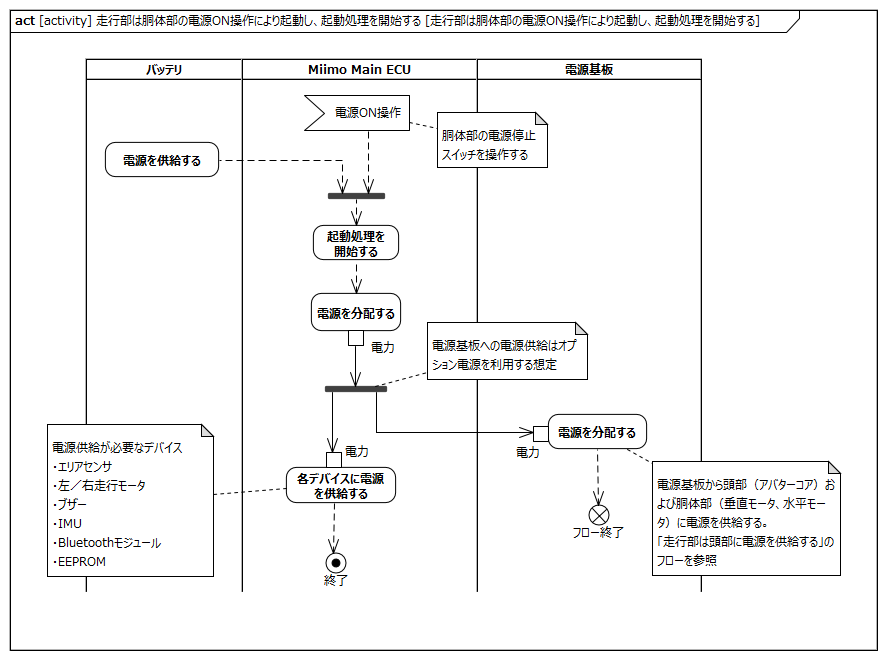
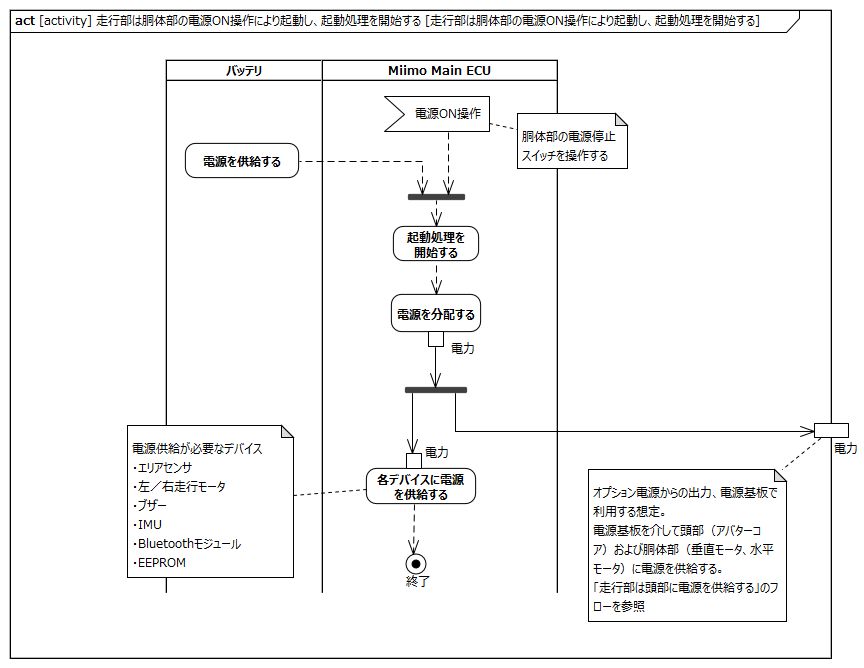
add l2 models/requirement for shutdown

diff --git a/requirements/shutdown.md b/requirements/shutdown.md
@@ -2,7 +2,7 @@
 title: テレプレゼンスロボット要求分析
 subtitle: 「SysRS-15:シャットダウンする」の要求詳細化
 author: 株式会社 豆蔵
-date: 2021年12月10日
+date: 2021年12月28日
 ---
 <!-- ↑表紙ページのための情報 -->
 
@@ -90,7 +90,8 @@ avatarin側の責務のため、対象外とする。
 
 |要求|備考|
 |:---|:---|
-|||
+|表示（LED等）はシャットダウン開始表示指示によ、シャットダウン処理中であることを表示する|※1|
+※1:LEDの色・点灯パターンで区別する想定
 
 <div style="page-break-before:always"></div>
 
@@ -102,7 +103,8 @@ avatarin側の責務のため、対象外とする。
 
 |要求|備考|
 |:---|:---|
-|||
+|垂直モータは頭部（アバターコア）による診断を受ける|「SysRS-01:起動する」内の要求と同一|
+|水平モータは頭部（アバターコア）による診断を受ける|「SysRS-01:起動する」内の要求と同一|
 
 <div style="page-break-before:always"></div>
 
@@ -114,7 +116,7 @@ avatarin側の責務のため、対象外とする。
 
 |要求|備考|
 |:---|:---|
-|||
+|表示（LED等）は電源OFFにより全ての状態表示をOFFにする||
 
 <div style="page-break-before:always"></div>
 
@@ -127,91 +129,115 @@ avatarin側の責務のため、対象外とする。
 
 |要求|備考|
 |:---|:---|
-|||
+|Miimo Main ECUは胴体部の電源OFF操作または、頭部からのシャットダウン開始指示によりシャットダウン処理を開始する||
+|Miimo Main ECUはシャットダウン開始表紙指示を胴体部に通知する|シャットダウン処理中であることを表示するため|
 
 <div style="page-break-before:always"></div>
 
 ## 走行部は頭部へシャットダウン開始を通知する
 
-![](.images/activity/shutdown/act01.png)
+![](.images/activity/shutdown/act02.png)
 
 
 **L2要求抽出**
 
 |要求|備考|
 |:---|:---|
-|||
+|Miimo Main ECUは頭部からシャットダウン開始指示を受信していない場合、頭部にシャットダウン開始指示を通知する||
 
 <div style="page-break-before:always"></div>
 
 ## 走行部は頭部への電源をOFFする
 
-![](.images/activity/shutdown/act01.png)
+![](.images/activity/shutdown/act03.png)
 
 
 **L2要求抽出**
 
 |要求|備考|
 |:---|:---|
-|||
+|Miimo Main ECUは電源基板への電源供給をOFFする|※1※2|
+|電源基板は頭部への電源供給をOFFにする||
+|電源基板は胴体部への電源供給をOFFにする||
+※1:頭部から終了処理完了通知受信時、もしくは、シャットダウン開始通知後XX秒後
+※2:オプション電源の出力をOFFにする想定
 
 <div style="page-break-before:always"></div>
 
 ## 走行部は自己診断を行う
 
-![](.images/activity/shutdown/act01.png)
+![](.images/activity/shutdown/act04.png)
 
 
 **L2要求抽出**
 
 |要求|備考|
 |:---|:---|
-|||
+|Miimo Main ECUは内部の診断を行う||
+|Miimo Main ECUはエリアセンサの診断を行う|※1|
+|Miimo Main ECUは左走行モータの診断を行う|※1|
+|Miimo Main ECUは右走行モータの診断を行う|※1|
+|Miimo Main ECUはブザーの診断を行う|※1|
+|Miimo Main ECUはIMUの診断を行う|※1|
+|Miimo Main ECUはBluetoothモジュールの診断を行う|※1|
+|Miimo Main ECUはEEPROMの診断を行う|※1|
+|Miimo Main ECUはバッテリの診断を行う|※1|
+※1:シャットダウン時の診断は通電とCAN通信の疎通確認のみの簡易的なものを想定（起動時と同等）
 
 <div style="page-break-before:always"></div>
 
 ## 走行部は自己診断が正常に完了した場合、走行履歴を保存する
 
-![](.images/activity/shutdown/act01.png)
+![](.images/activity/shutdown/act05.png)
 
 
 **L2要求抽出**
 
 |要求|備考|
 |:---|:---|
-|||
+|Miimo Main ECUは自己診断が正常に完了した場合、走行履歴をEEPROMに送信する||
+|EEPROMは走行履歴を書き込む||
 
 <div style="page-break-before:always"></div>
 
 ## 走行部は自己診断で異常があった場合、走行履歴および診断結果を保存する
 
-![](.images/activity/shutdown/act01.png)
+![](.images/activity/shutdown/act06.png)
 
 
 **L2要求抽出**
 
 |要求|備考|
 |:---|:---|
-|||
+|Miimo Main ECUは自己診断で異常があった場合、走行履歴と診断結果をEEPROMに送信する||
+|EEPROMは走行履歴と診断結果を書き込む|EEPROMへの書き込みができない場合も診断異常として扱う|
 
 ## 走行部は走行部を終了する
 
-![](.images/activity/shutdown/act01.png)
+![](.images/activity/shutdown/act07.png)
 
 
 **L2要求抽出**
 
 |要求|備考|
 |:---|:---|
-|||
+|Miimo Main ECUはシャットダウン処理を完了する||
+
 
 ## 走行部は走行部の電源をOFFにする
 
-![](.images/activity/shutdown/act01.png)
+![](.images/activity/shutdown/act08.png)
 
 
 **L2要求抽出**
 
 |要求|備考|
 |:---|:---|
-|||
+|バッテリはMiimo Main ECUへの電源を遮断する||
+|Miimo Main ECUはエリアセンサへの電源供給をOFFにする||
+|Miimo Main ECUは左走行モータへの電源供給をOFFにする||
+|Miimo Main ECUは右走行モータへの電源供給をOFFにする||
+|Miimo Main ECUはブザーへの電源供給をOFFにする||
+|Miimo Main ECUはIMUへの電源供給をOFFにする||
+|Miimo Main ECUはBluetoothモジュールへの電源供給をOFFにする||
+|Miimo Main ECUはEEPROMへの電源供給をOFFにする||

diff --git a/requirements/power_on.md b/requirements/power_on.md
@@ -119,6 +119,7 @@ avatarin側の責務のため、対象外とする。
 |要求|備考|
 |:---|:---|
 |Miimo Main ECUはバッテリから電源が供給されている状態で胴体部の電源ON操作により起動処理を開始する||
+|Miimo Main ECUは電源を分配（オプション電源に出力）する|電源基板で利用するため|
 |Miimo Main ECUはエリアセンサに電源を供給する||
 |Miimo Main ECUは左走行モータに電源を供給する||
 |Miimo Main ECUは右走行モータに電源を供給する||
@@ -126,7 +127,6 @@ avatarin側の責務のため、対象外とする。
 |Miimo Main ECUはIMUに電源を供給する||
 |Miimo Main ECUはBluetoothモジュールに電源を供給する||
 |Miimo Main ECUはEEPROMに電源を供給する||
-|Miimo Main ECUは電源基板に電源を供給する|オプション電源から給電する想定|
 
 
 <div style="page-break-before:always"></div>
@@ -140,6 +140,7 @@ avatarin側の責務のため、対象外とする。
 
 |要求|備考|
 |:---|:---|
+|Miimo Main ECUは電源基板に電源を供給する|オプション電源から給電する想定|
 |電源基板は頭部に電源を供給する||
 |電源基板は胴体部に電源を供給する||
 

diff --git a/requirements/requirement.md b/requirements/requirement.md
@@ -1905,7 +1905,7 @@ YES動作コマンドは首垂直動作に依存し、NO動作コマンドは首
 |胴体部は電源OFFにより状態表示をOFFにする||
 |走行部はシャットダウン開始を受信する||
 |走行部は頭部へシャットダウン開始を通知する||
-|走行部は頭部への電源をOFFする|シャットダウン開始通知後XX秒後、もしくは、頭部からシャットダウン完了通知受信時|
+|走行部は頭部への電源をOFFする|頭部から終了処理完了通知受信時、もしくは、シャットダウン開始通知後XX秒後|
 |走行部は自己診断を行う||
 |走行部は自己診断が正常に完了した場合、走行履歴を保存する||
 |走行部は自己診断で異常があった場合、走行履歴および診断結果を保存する||
